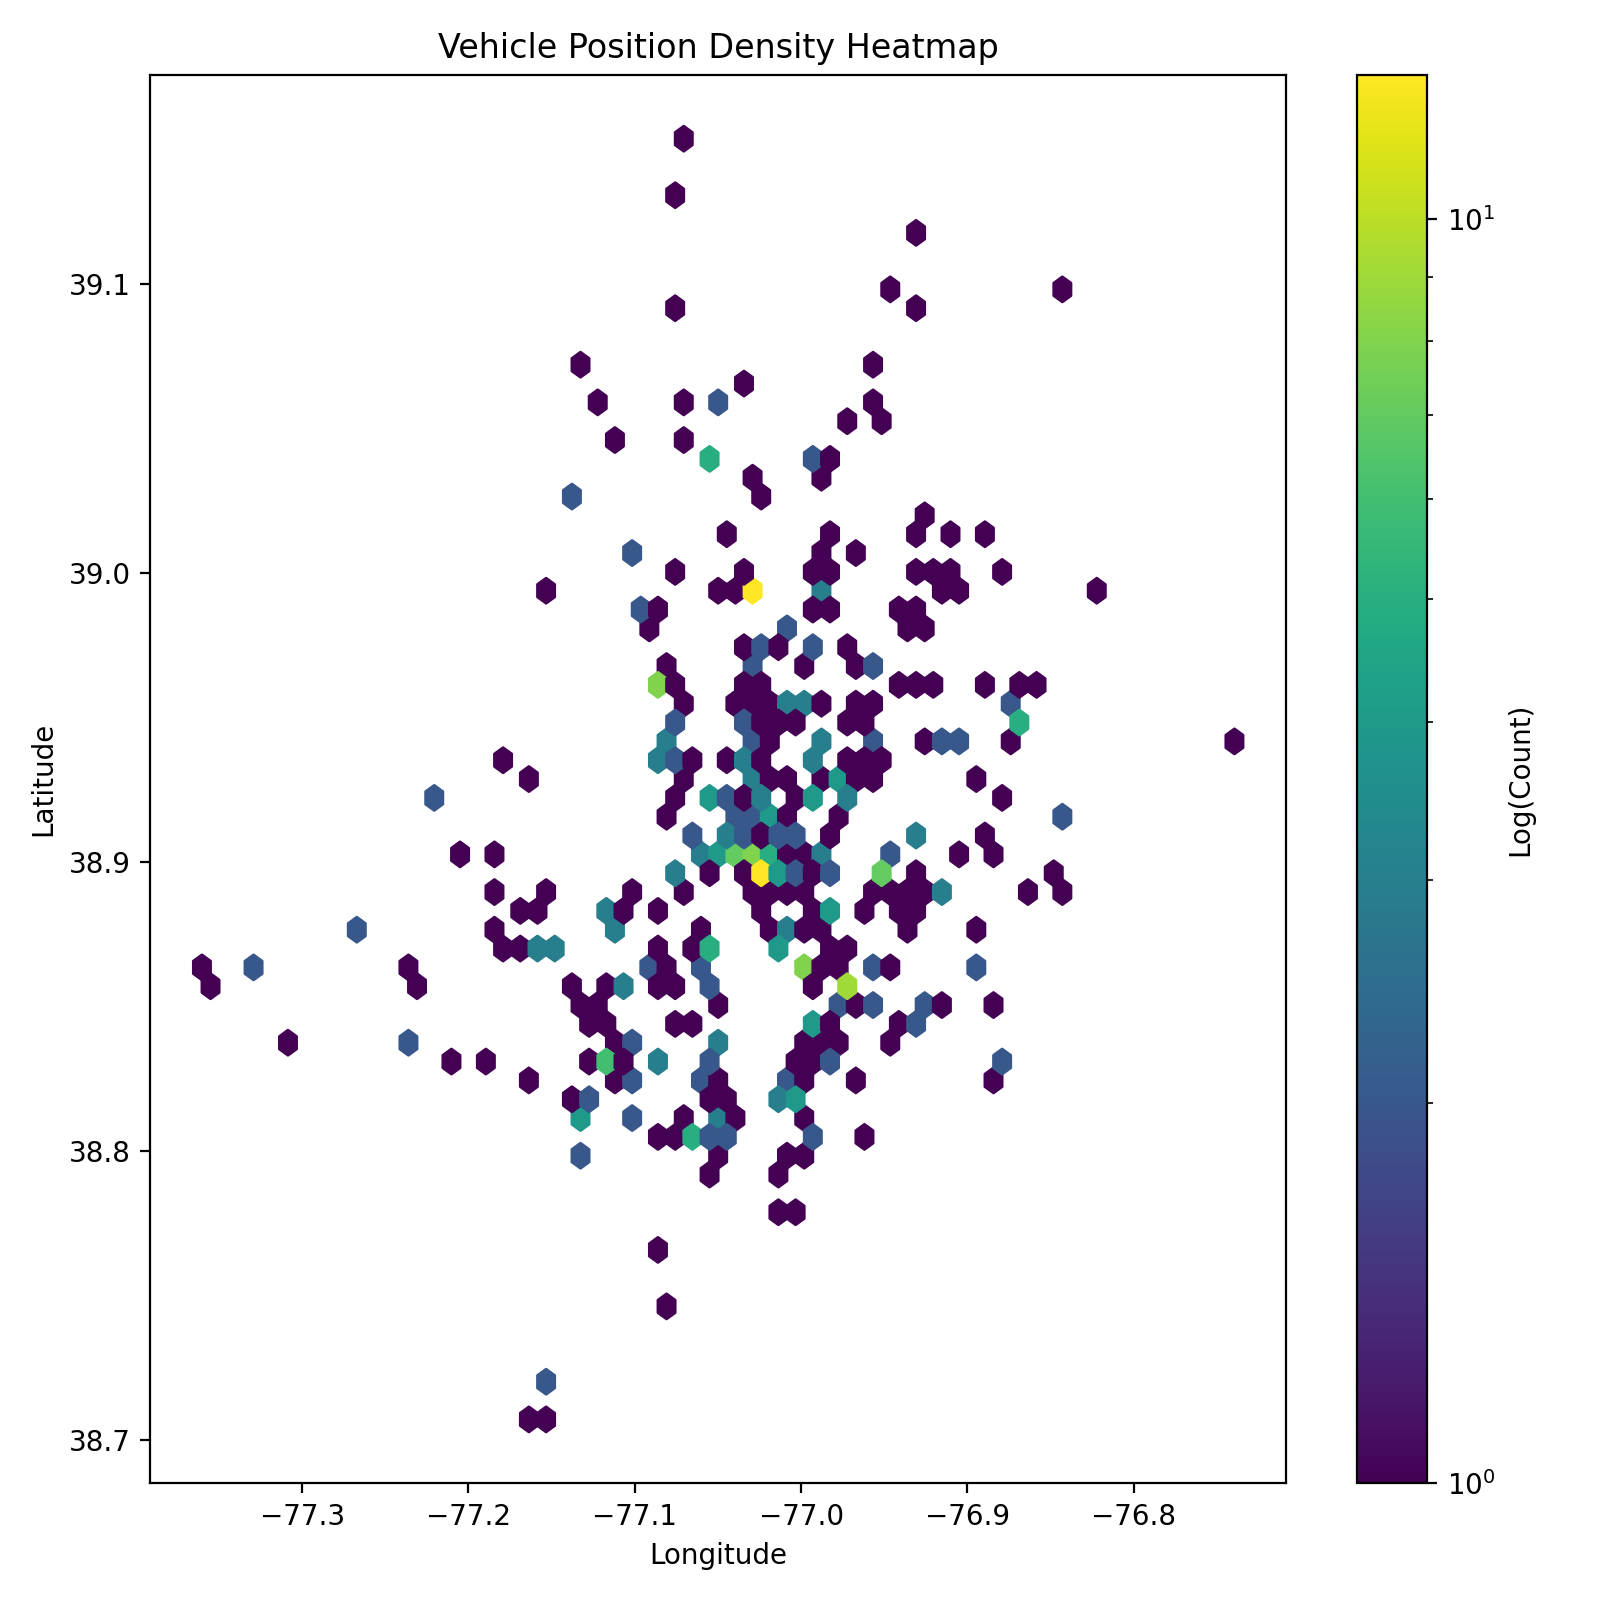
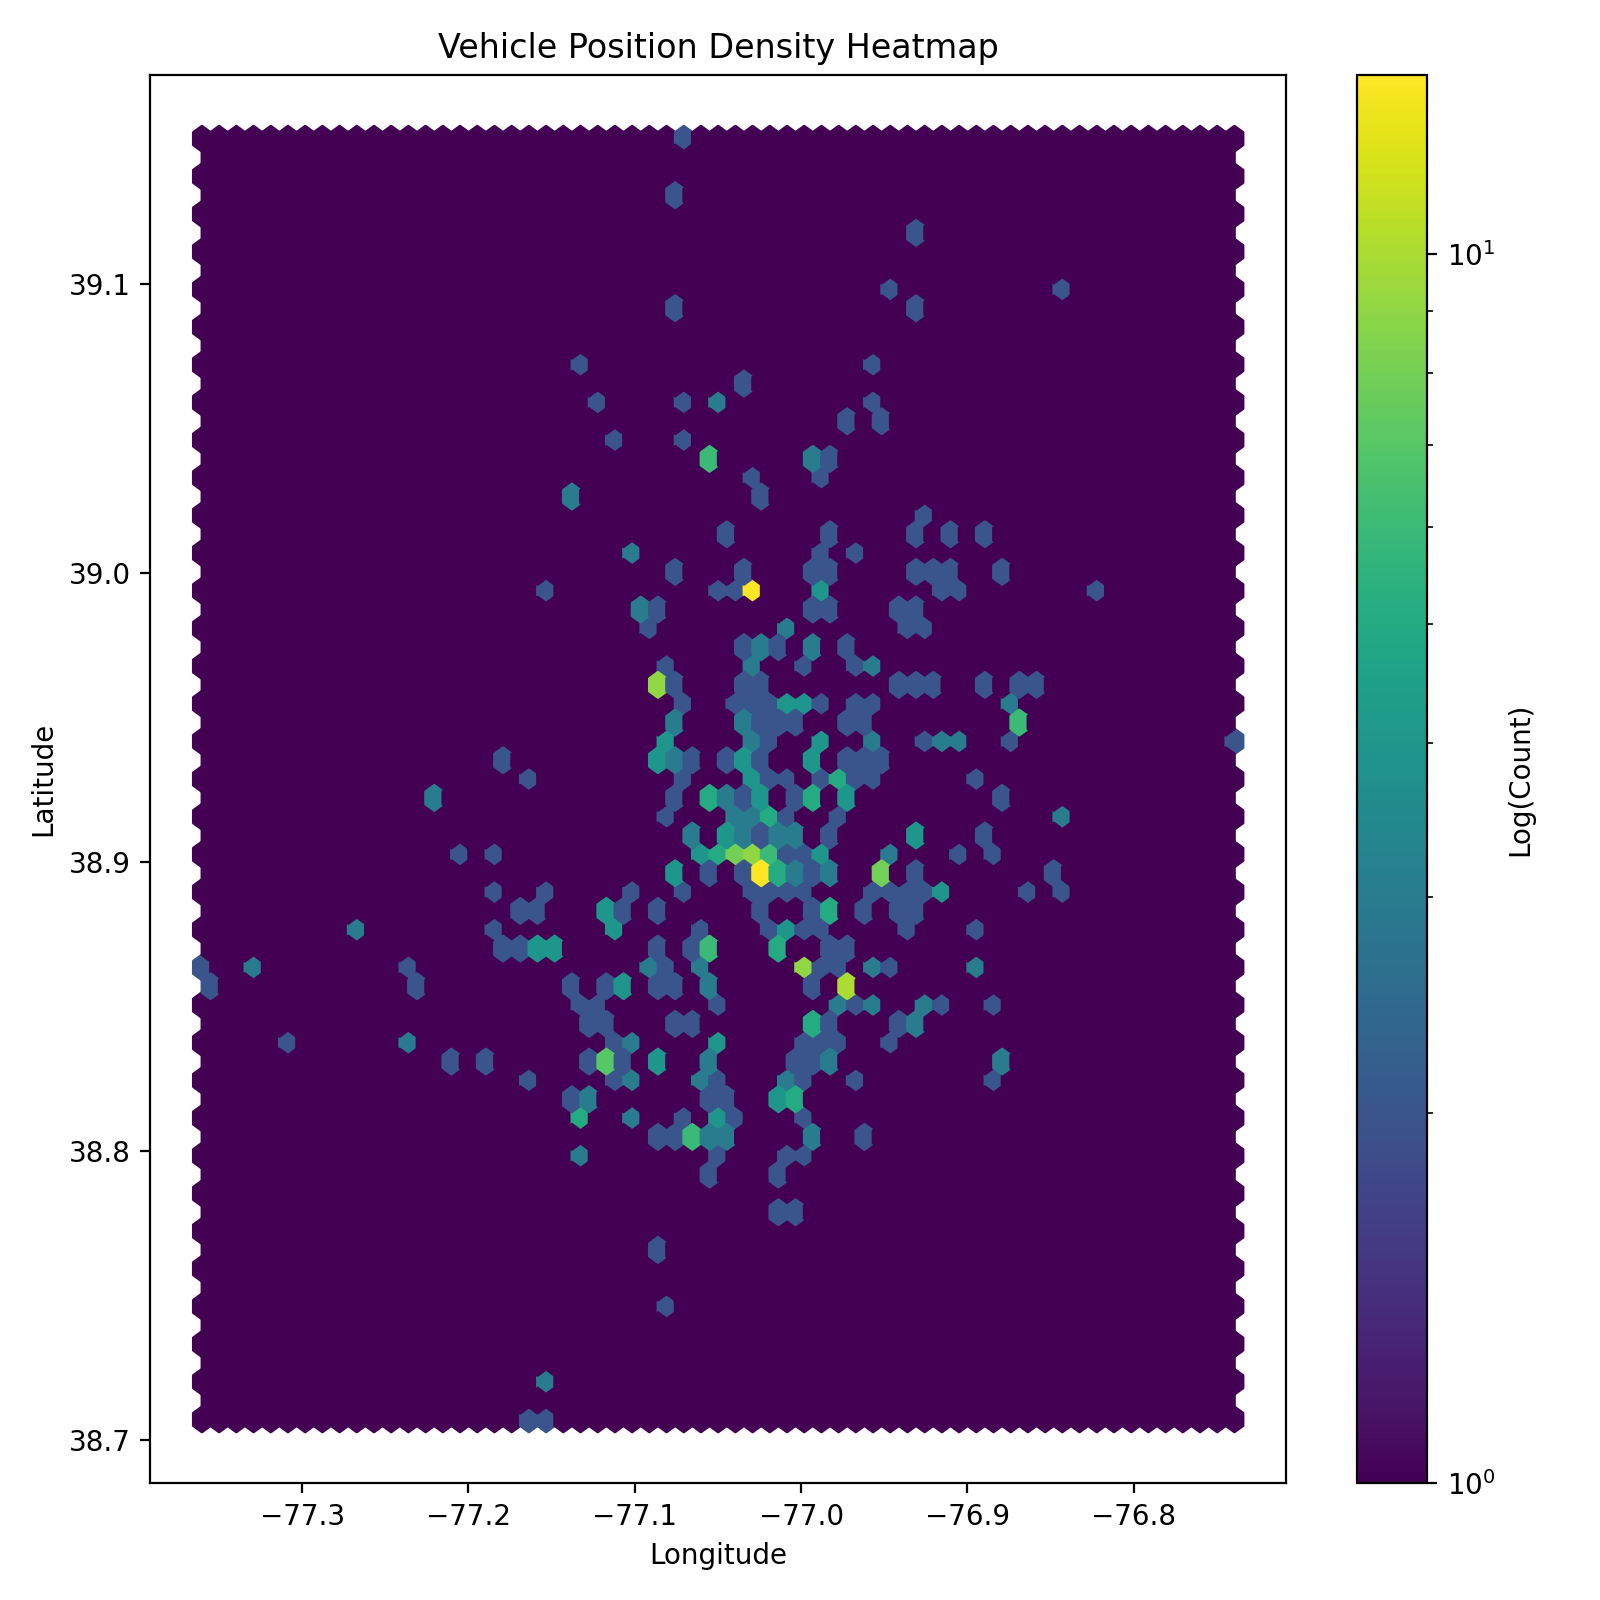
changes to analysis and gitignore

diff --git a/analysis.py b/analysis.py
@@ -11,11 +11,16 @@ import pandas as pd
 import matplotlib.pyplot as plt
 
 
+LOG_FILE = "analysis.log"
+
 logging.basicConfig(
     level=logging.INFO,
-    format="[%(levelname)s] %(message)s",
+    format="[%(levelname)s] %(asctime)s - %(message)s",
+    handlers=[
+        logging.FileHandler(LOG_FILE, mode="w"),  
+        logging.StreamHandler()                   
+    ]
 )
-
 DEFAULT_DB_PATH = "metro.duckdb"
 
 TABLE_POSITIONS = "positions"
@@ -238,6 +243,13 @@ def plot_speed_vs_delay(con: duckdb.DuckDBPyConnection, out_dir: Path) -> None:
 def sanitize_filename_part(s: str) -> str:
     return re.sub(r"[^A-Za-z0-9]+", "_", s).strip("_") or "route"
 
+def list_unique_routes(con: duckdb.DuckDBPyConnection) -> list[str]:
+    """Return and print all unique route_ids available in the positions table."""
+    query = f"SELECT DISTINCT {COL_ROUTE_ID} FROM {TABLE_POSITIONS} WHERE {COL_ROUTE_ID} IS NOT NULL ORDER BY {COL_ROUTE_ID};"
+    df = con.execute(query).fetchdf()
+    routes = sorted(df[COL_ROUTE_ID].dropna().unique())
+    logging.info("Available routes:\n%s", ", ".join(routes))
+    return routes
 
 def plot_avg_delay_for_routes(
     con: duckdb.DuckDBPyConnection,
@@ -300,6 +312,7 @@ def main() -> None:
     con = connect_db(args.db)
     list_tables(con)
     df = load_combined_data(con)
+    available_routes = list_unique_routes(con)
 
     if df.empty:
         logging.warning("No data to plot from positions.")
